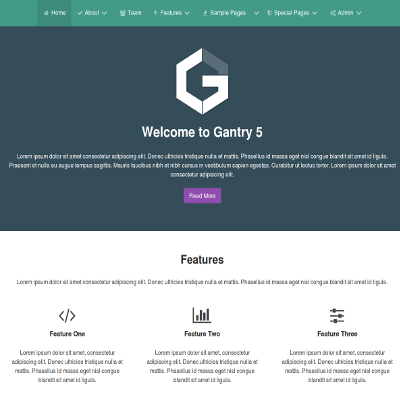
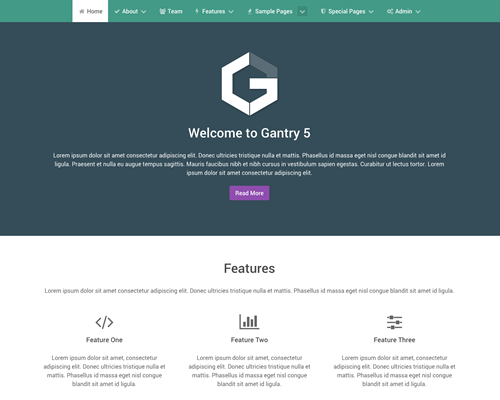
Cleaned up admin image assets, changed aspect ratio of style presets for more page real estate

diff --git a/platforms/common/css-compiled/admin.css b/platforms/common/css-compiled/admin.css
@@ -333,6 +333,8 @@ a {
   @media only all and (max-width: 47.938rem) {
     #g5-container .overview-details {
       text-align: center; } }
+  #g5-container .overview-details .preview-image {
+    width: 350px; }
 #g5-container .overview-gantry .g-block {
   padding: 0.938rem; }
 @media only all and (max-width: 47.938rem) {
@@ -696,9 +698,14 @@ a {
   color: #fff;
   background: rgba(0, 0, 0, 0.4);
   padding: 0.5rem;
-  border-radius: 0 0 0 0.1875rem; }
+  border-radius: 0 0 0 0.1875rem;
+  -webkit-transition: background 0.2s;
+  -moz-transition: background 0.2s;
+  transition: background 0.2s; }
   #g5-container .swatch-preview i {
     font-size: 1.2rem; }
+  #g5-container .swatch-preview:hover {
+    background: rgba(0, 0, 0, 0.7); }
 
 #g5-container #page-picker ul .size-1-4 {
   -webkit-box-flex: 0;

diff --git a/platforms/common/scss/admin/_styles.scss b/platforms/common/scss/admin/_styles.scss
@@ -37,8 +37,12 @@
     	background: rgba(0,0,0,0.4);
     	padding: 0.5rem;
     	border-radius: 0 0 0 $core-border-radius;
+    	@include transition(background 0.2s);
     	i {
     		font-size: $core-font-size + 0.2;
+    	}
+    	&:hover {
+    		background: rgba(0,0,0,0.7);
     	}
     }
 }

diff --git a/platforms/common/scss/admin/_overview.scss b/platforms/common/scss/admin/_overview.scss
@@ -53,6 +53,10 @@
     @include breakpoint(mobile-only) {
         text-align: center;
     }
+
+    .preview-image {
+        width: 350px;
+    }
 }
 
 .overview-gantry {
